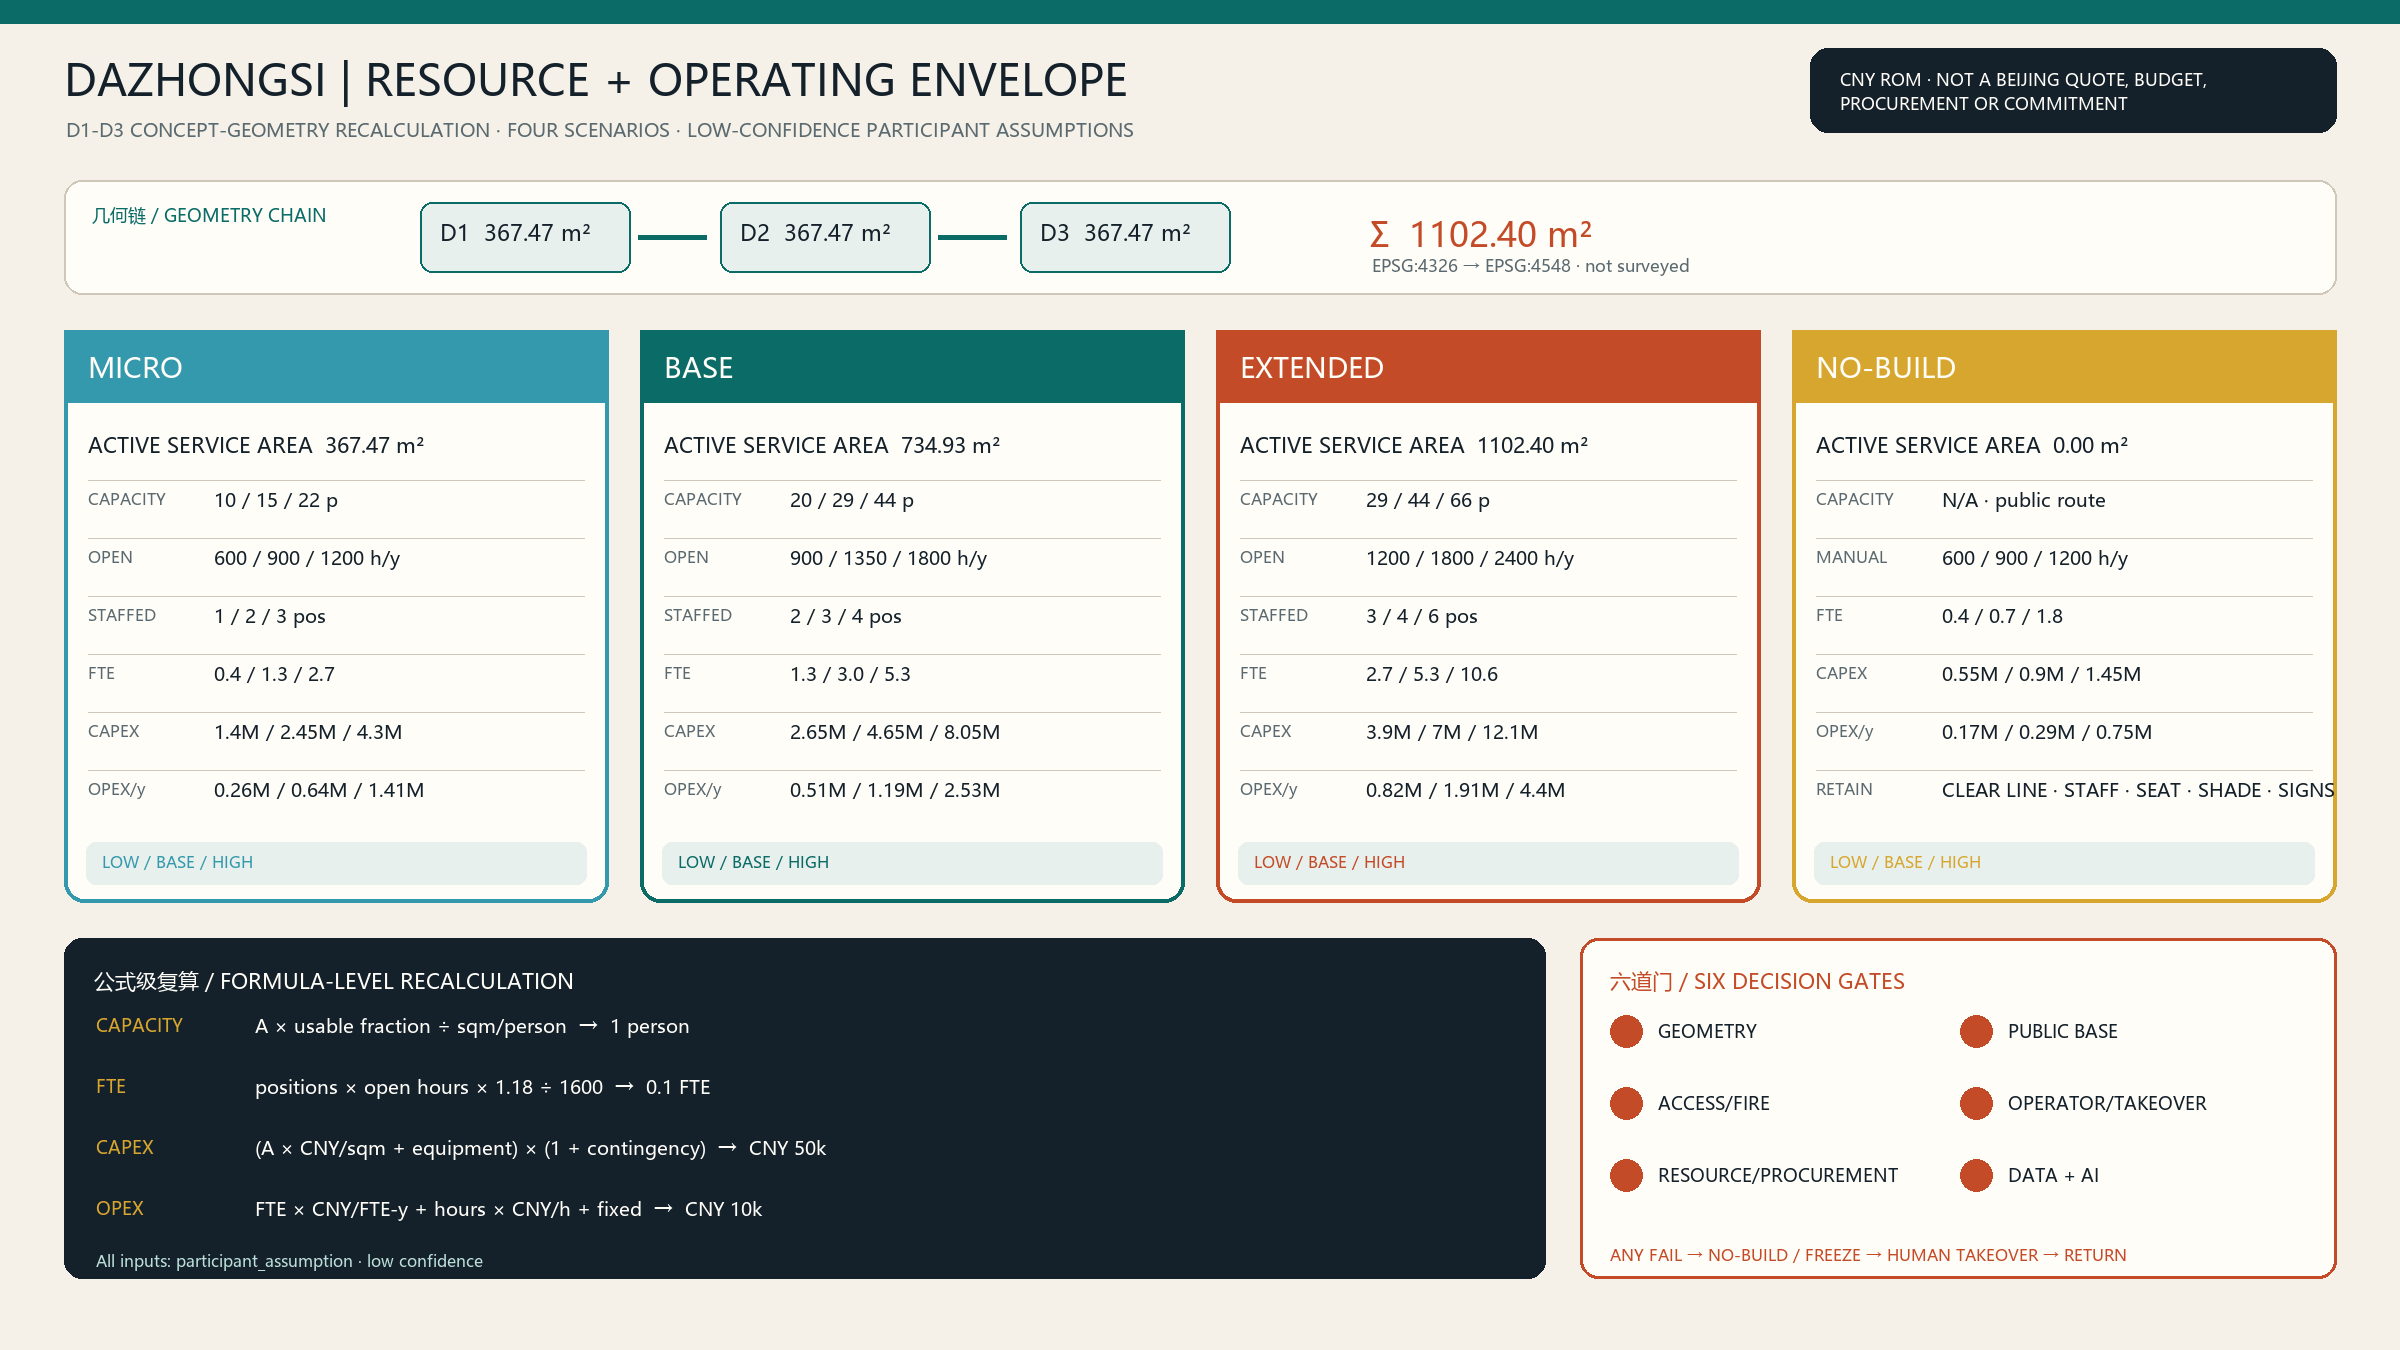
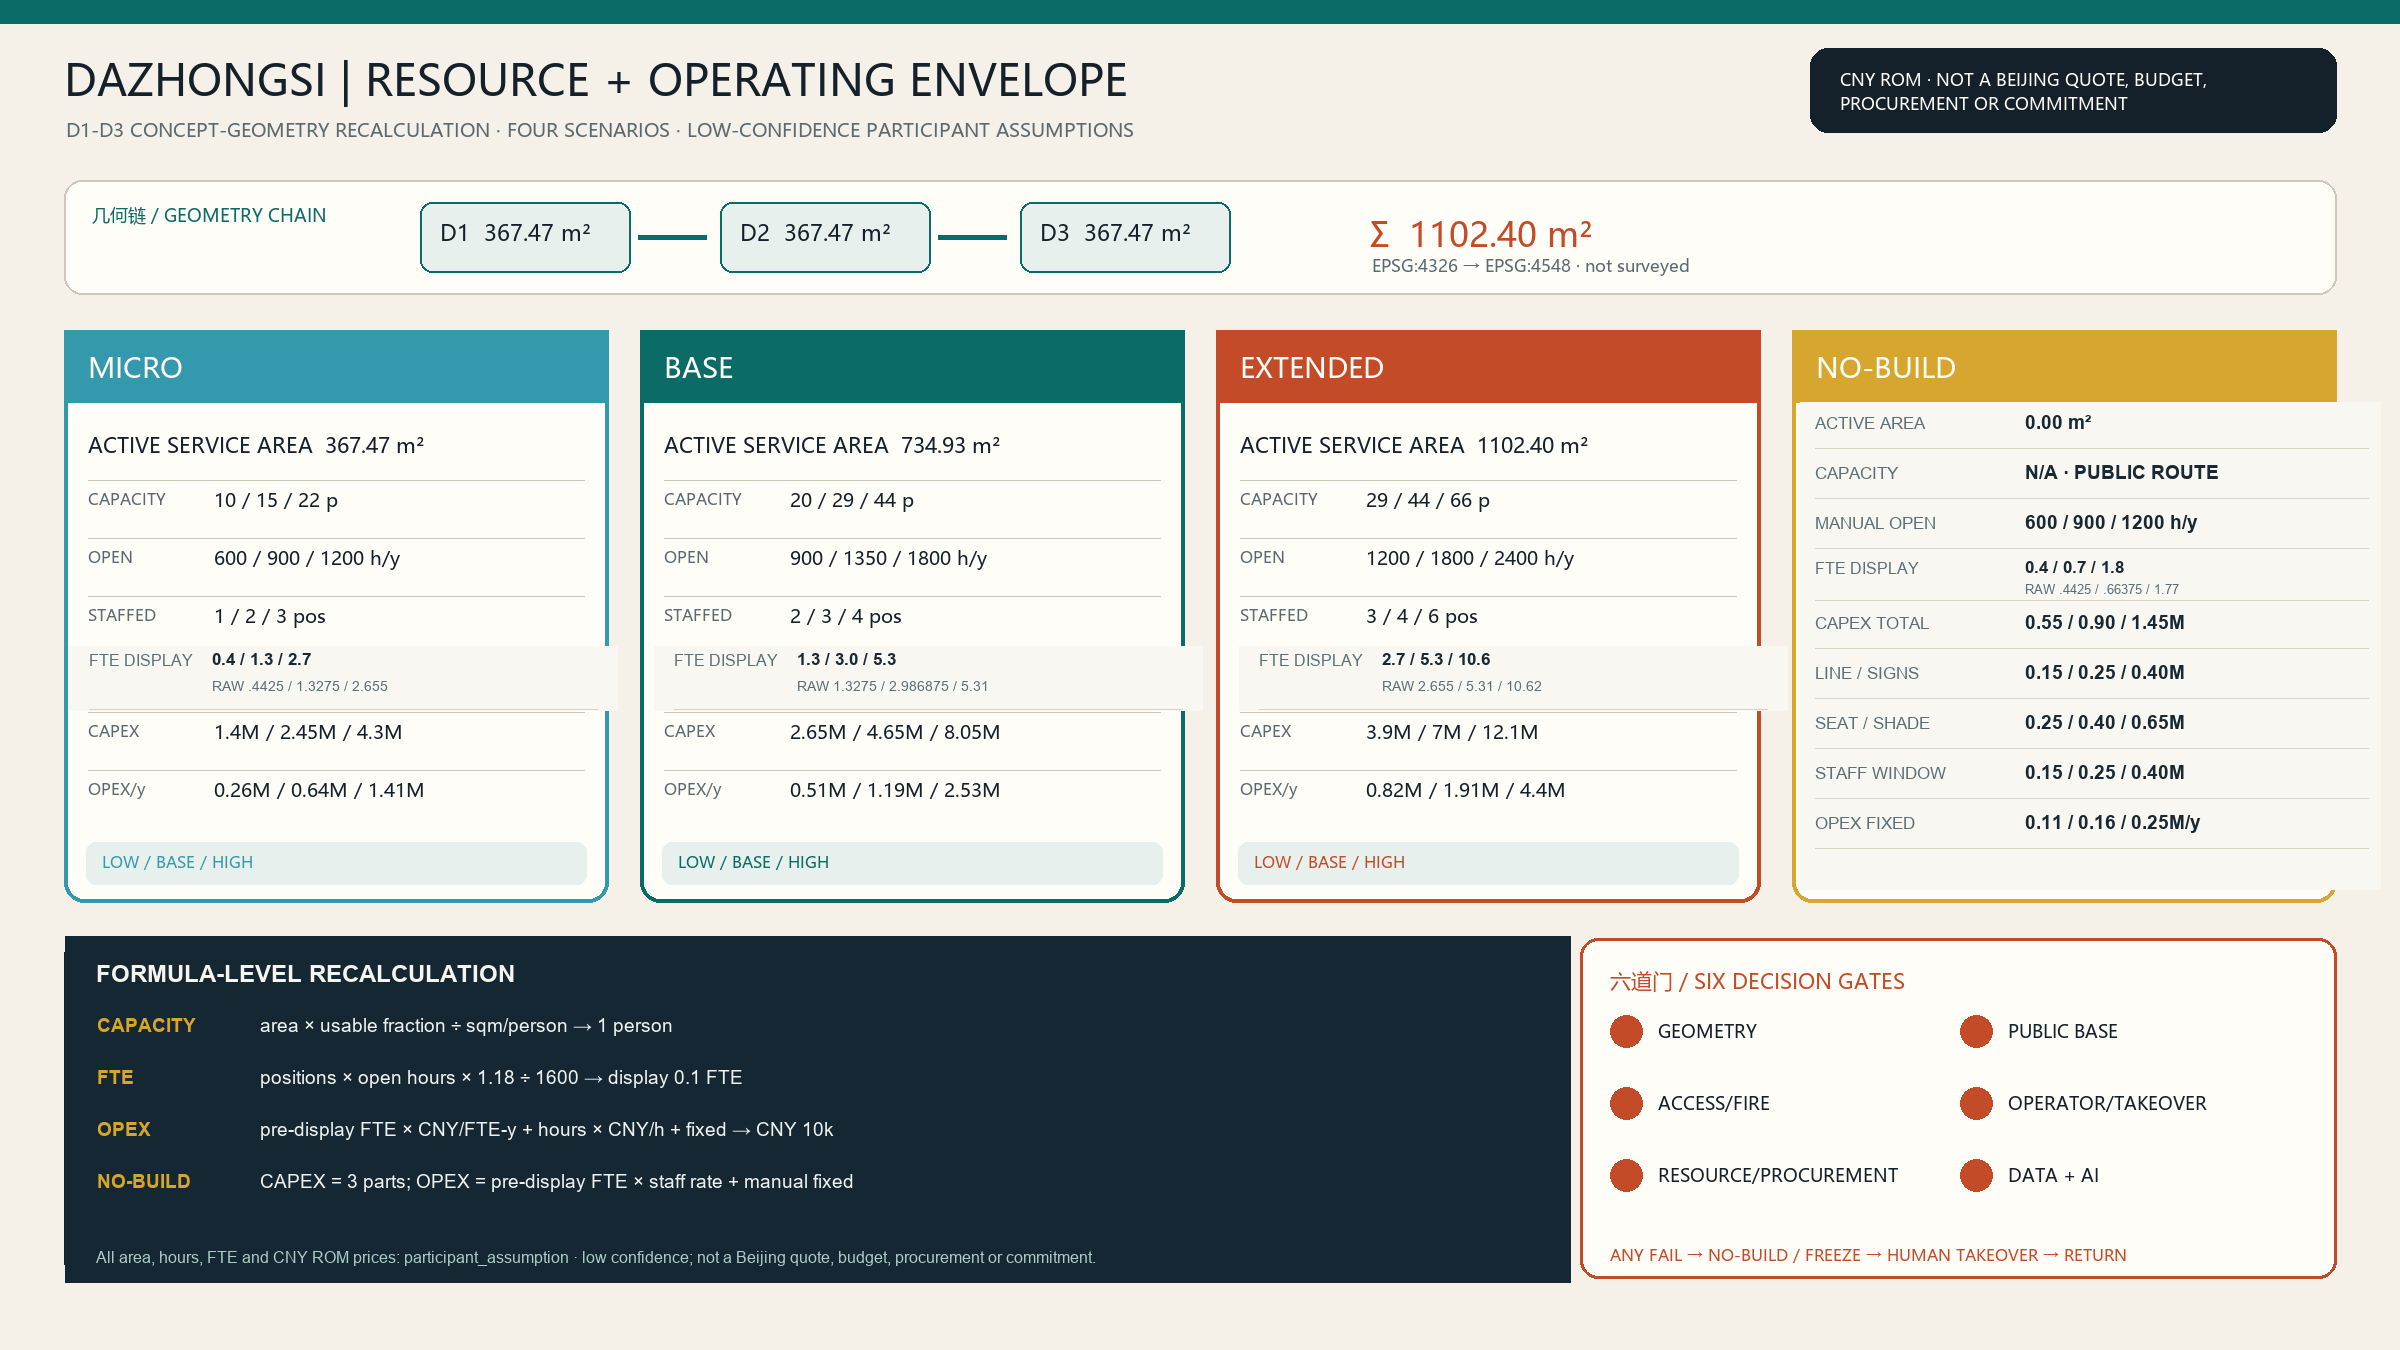
fix: make operating envelope fully reproducible

diff --git a/submissions/SherlockMF/permanent-public-base/proposal.en.md b/submissions/SherlockMF/permanent-public-base/proposal.en.md
@@ -221,7 +221,7 @@ At Dazhongsi, AI-native consumption and business means a **one-unit, short-durat
 
 The Dazhongsi side-interface arrival hall is the sole flagship. A multi-scale concept-control framework uses location intent, not-to-scale plan and section, and interface assembly relationships to locate the public clear-line target, safety buffer, side service band, maintenance/withdrawal band, state and staffed-service point. D1–D3 dimensions come only from the current concept geometry; every envelope must move or be withdrawn after station-exit, fire, heritage, property and utility surveys. They are not existing measurements, construction drawings or approvals.[data:geometry/phasing.geojson#PH-P819-01-DAZHONGSI] [depth:three_key_area_detailed_design]
 
-The operating envelope recalculates the same D1–D3 concept geometry. Micro / Base / Extended active-service areas are 367.47 / 734.93 / 1,102.40 sqm. The Base arithmetic envelope is 20–44 people, 900–1,800 hours/year, 1.3–5.3 FTE, CNY 2.65–8.05M CAPEX ROM and CNY 0.51–2.53M/year OPEX ROM. Every input is a low-confidence participant assumption, not a Beijing quotation, budget, procurement or commitment. No-build still retains the public clear line, staffed manual window, seating, shade, wayfinding and manual service.[metric:dazhongsi_base_active_service_area_sqm] [data:visual/assets/dazhongsi-operating-envelope.json]
+The operating envelope recalculates the same D1–D3 concept geometry. Micro / Base / Extended active-service areas are 367.47 / 734.93 / 1,102.40 sqm. The Base arithmetic envelope is 20–44 people, 900–1,800 hours/year, 1.3–5.3 FTE, CNY 2.65–8.05M CAPEX ROM and CNY 0.51–2.53M/year OPEX ROM. Display FTE is rounded to 0.1, while OPEX uses the published pre-display-rounding FTE; No-build publishes low/base/high CAPEX components for clear-line/wayfinding, seating/shade and the staffed window, plus its fixed manual-service OPEX allowance. Every input is a low-confidence participant assumption, not a Beijing quotation, budget, procurement or commitment. No-build still retains the public clear line, staffed manual window, seating, shade, wayfinding and manual service.[metric:dazhongsi_base_active_service_area_sqm] [data:visual/assets/dazhongsi-operating-envelope.json]
 
 ![Figure 06A | Four Dazhongsi resource and operating scenarios: area, capacity, opening, FTE, CAPEX/OPEX formulas and the no-build public base.](assets/figures/dazhongsi-operating-envelope.en.png)
 

diff --git a/submissions/SherlockMF/permanent-public-base/proposal.md b/submissions/SherlockMF/permanent-public-base/proposal.md
@@ -220,7 +220,7 @@ EDGE-HOUSE 沿成府路公共侧形成可进入的知识门槛。基态提供遮
 
 大钟寺旁置到达前厅是唯一旗舰。多尺度概念控制框架以定位意图、非比例总平与剖面、接口组件关系共同说明公共净线目标、安全缓冲、旁置服务带、维护撤场带、状态与人工服务点；D1–D3 尺寸只来自当前概念几何，全部待站口、消防、文保、权属与管线测绘后移位或撤回，不是现状实测、施工图或批准结论。[data:geometry/phasing.geojson#PH-P819-01-DAZHONGSI] [depth:three_key_area_detailed_design]
 
-资源包络从同一 D1–D3 概念几何复算：Micro / Base / Extended 的主动服务面积为 367.47 / 734.93 / 1102.40 m²；Base 算术情景为 20–44 人、900–1800 小时/年、1.3–5.3 FTE、CNY 2.65–8.05M CAPEX ROM 和 CNY 0.51–2.53M/年 OPEX ROM。全部输入均为参与者低置信假设，不是北京报价、预算、采购或承诺；No-build 仍保留公共净线、人工窗口、座椅、遮荫、导视与人工服务。[metric:dazhongsi_base_active_service_area_sqm] [data:visual/assets/dazhongsi-operating-envelope.json]
+资源包络从同一 D1–D3 概念几何复算：Micro / Base / Extended 的主动服务面积为 367.47 / 734.93 / 1102.40 m²；Base 算术情景为 20–44 人、900–1800 小时/年、1.3–5.3 FTE、CNY 2.65–8.05M CAPEX ROM 和 CNY 0.51–2.53M/年 OPEX ROM。FTE 展示值舍入至 0.1，OPEX 使用已公开的展示舍入前 FTE；No-build 的净线/导视、座椅/遮荫、人工窗口 CAPEX 与固定人工服务 OPEX 分项均公开低/基准/高值。全部输入均为参与者低置信假设，不是北京报价、预算、采购或承诺；No-build 仍保留公共净线、人工窗口、座椅、遮荫、导视与人工服务。[metric:dazhongsi_base_active_service_area_sqm] [data:visual/assets/dazhongsi-operating-envelope.json]
 
 ![图 06A｜大钟寺四情景资源与运营包络：面积、容量、开放、FTE、CAPEX/OPEX公式及不建设公共基底。](assets/figures/dazhongsi-operating-envelope.png)
 
